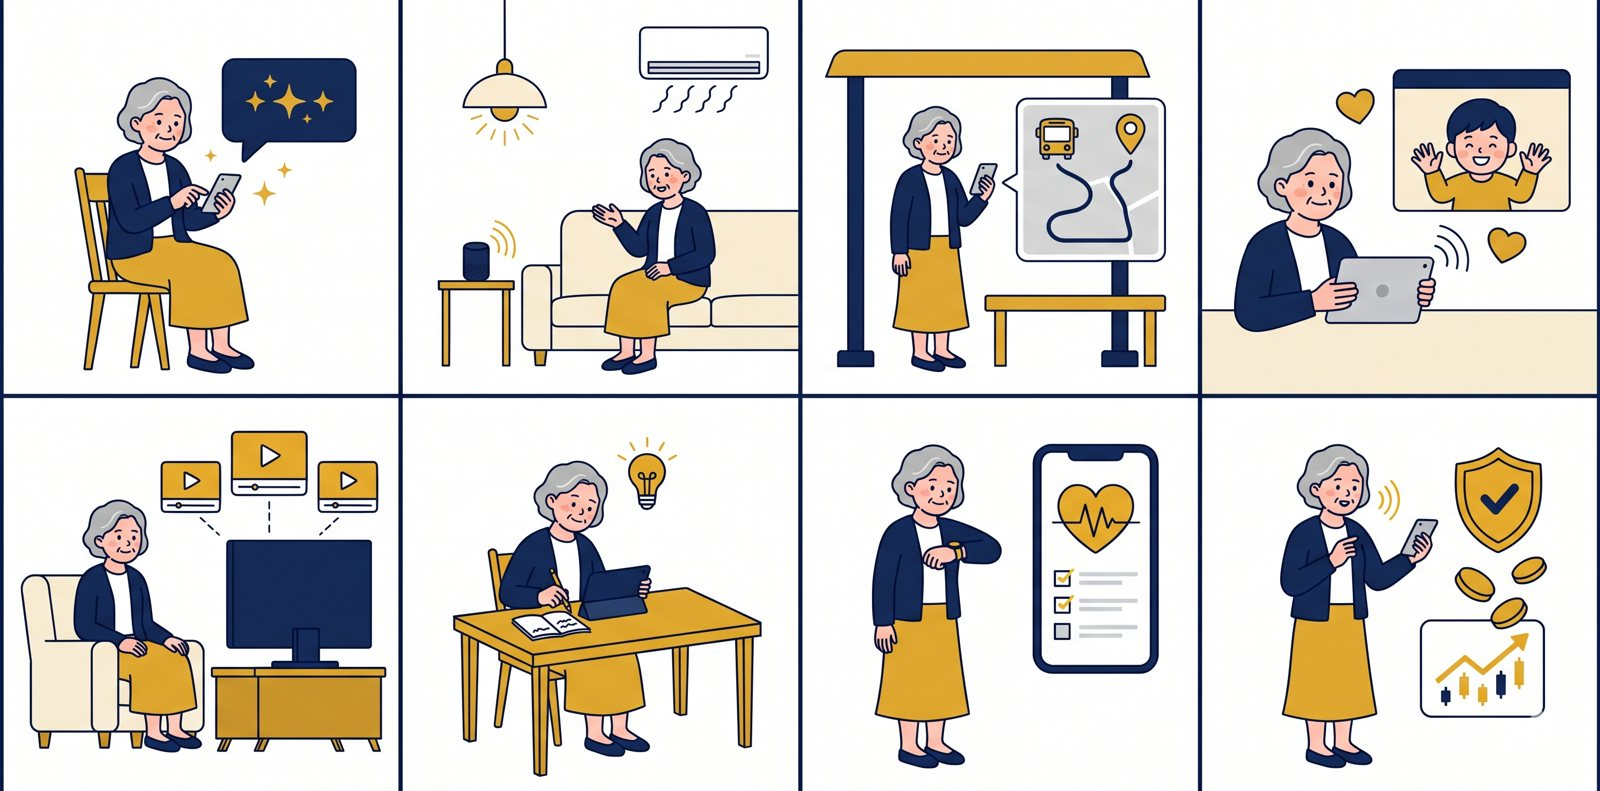
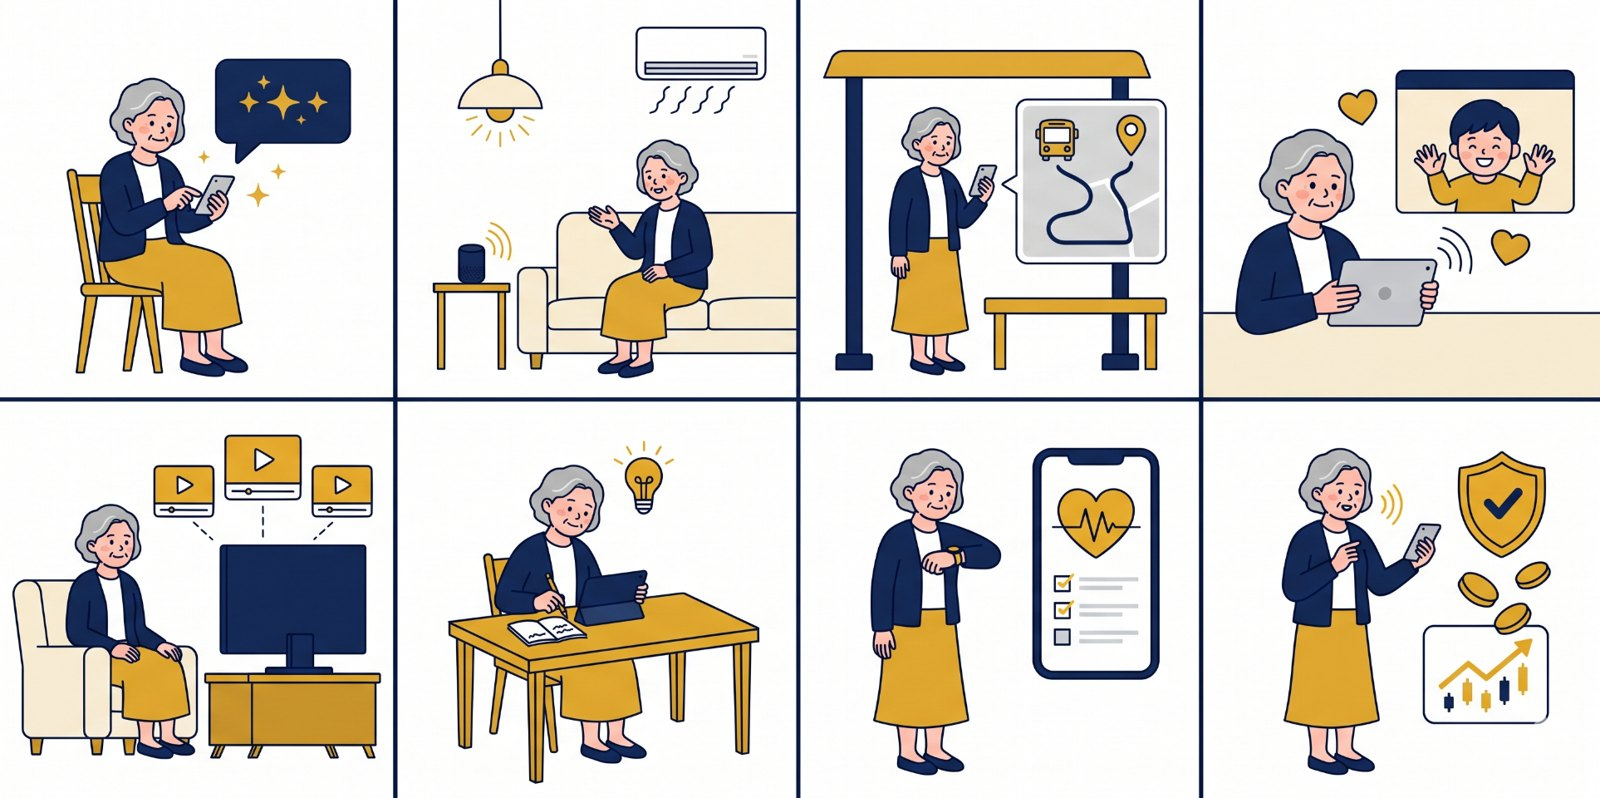
Replace life-domain illustration
Claude-Session: https://claude.ai/code/session_01HdcuJd6gwZ7SaRmcEPULV1

diff --git a/index.html b/index.html
@@ -269,7 +269,7 @@ footer .inner { max-width: 820px; padding-block: 22px 34px; font-family: var(--d
         <h3>What expands the breadth of AI service use among older adults?</h3>
         <p>Using the 2025 Digital Divide Survey in South Korea (N = 6,245), we examined psychological factors associated with the breadth of AI service use among adults aged 19–64 years (n = 4,965) and adults aged 65 years or older (n = 1,280). AI literacy was positively associated with breadth directly and indirectly through performance expectancy, and the indirect association was stronger at higher levels of technological self-efficacy.</p>
         <figure class="study-fig">
-          <img src="media/ai-life-domains.jpg" width="1600" height="791" loading="lazy" alt="Eight illustrated panels of an older woman using AI services: generative AI, home automation, transportation, communication, media, education, health and wellness, and finance">
+          <img src="media/ai-life-domains.jpg?v=2" width="1600" height="798" loading="lazy" alt="Eight illustrated panels of an older woman using AI services: generative AI, home automation, transportation, communication, media, education, health and wellness, and finance">
           <figcaption>The eight life domains of AI service use: generative AI, home automation, transportation, communication &amp; social, media, education, health and wellness, and finance.</figcaption>
         </figure>
         <div class="figs">
